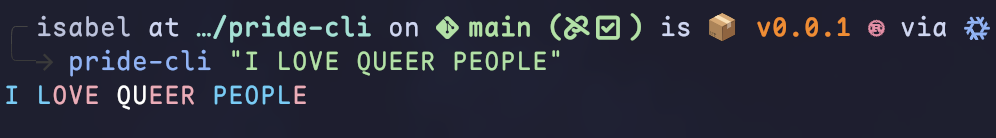
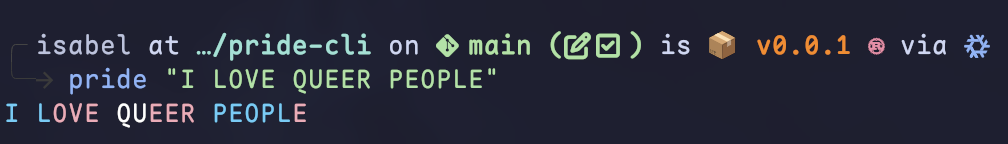
docs: ajust to rename

Changed region(s): [[0.0, 0.087, 0.996, 0.8986]]

diff --git a/docs/README.md b/docs/README.md
@@ -1,4 +1,4 @@
-## Pride cli
+## Pride the cli
 
 Generate yourself some nice pride flag styled strings
 
@@ -14,11 +14,11 @@ We try to make this process as simple as possible, thats why all you need to do 
 1) Print "Your text of choice" with a bisexual flag added to the background which groups the colors by 3 before changing to the next.
 
 ```sh
-pride-cli "Your text of choice" --flag bisexual --grouping 3 --style bg
+pride "Your text of choice" --flag bisexual --grouping 3 --style bg
 ```
 
 2) Print "Mom, I like women" to with the recomended grouping, and styling the text
 
 ```sh
-pride-cli "Mom, I like women" --flag lesbian
+pride "Mom, I like women" --flag lesbian
 ```
